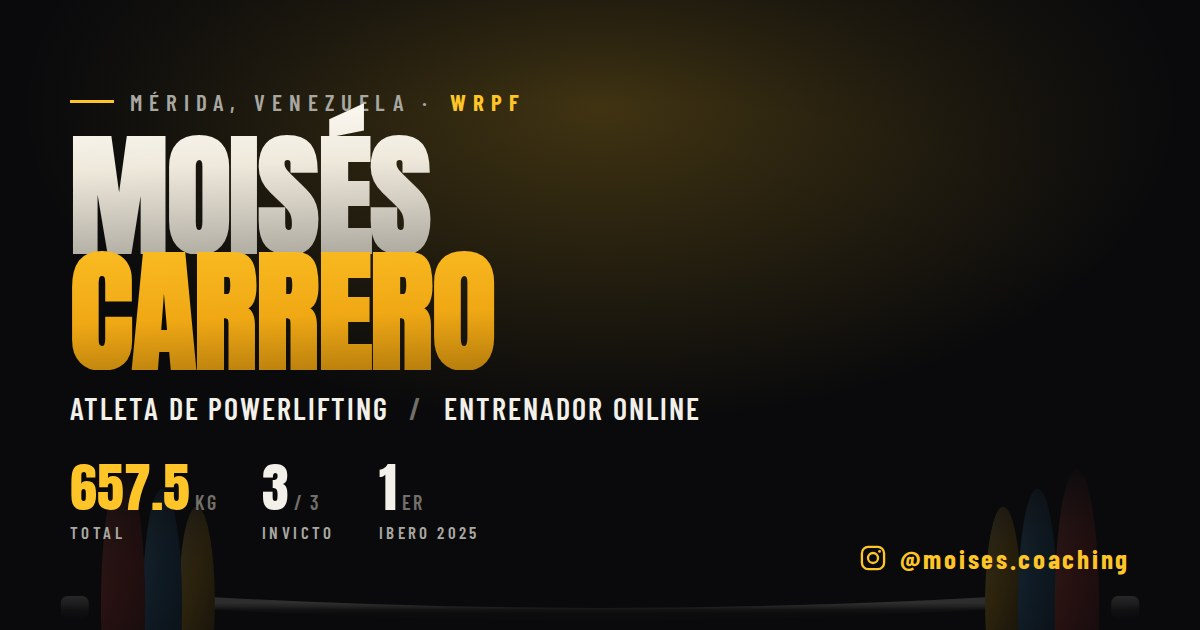
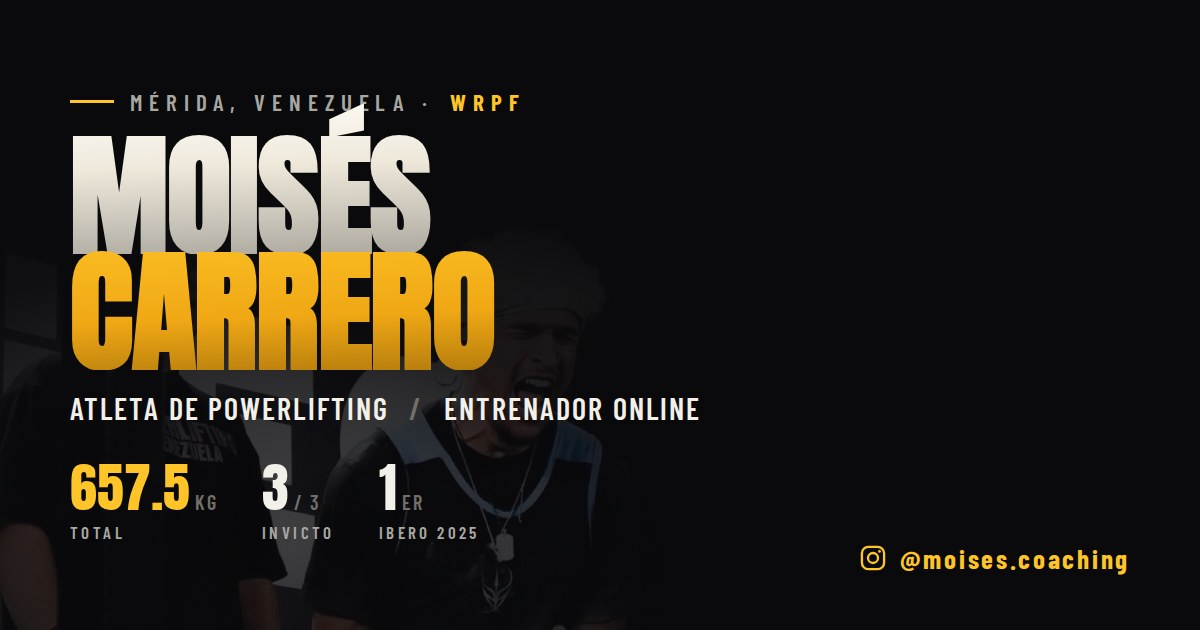
Usar fotos reales de Moisés en vez de ilustraciones SVG
El PDF de referencia traía capturas de Instagram en baja resolución, pero las
imágenes embebidas en ese PDF resultaron estar a resolución completa de
cámara (1496×3256). Se extrajeron dos y se usaron como fotografía real:

- Hero: foto de competencia (grito de celebración tras un levantamiento,
  Power Cartel Meet), reemplazando la barra olímpica ilustrada en SVG.
- Sección "Su historia": foto de podio con medalla y certificado del
  Iberoamericano 2025 (Medellín), en una nueva tarjeta junto a la ficha del
  atleta.

Ambas se recortaron para quitar la interfaz de Instagram, se les removió el
indicador de carrusel ("1/8", "1/5") que quedaba visible en la esquina
mediante un parche de textura clonada, se les quitaron los metadatos EXIF y
se optimizaron para web (148 KB y 75 KB).

El velo de legibilidad del hero se reforzó para que el texto siga
contrastando bien contra una foto real en vez de un fondo sólido, y el
parallax ahora mueve la foto en sí (background-position) en lugar del SVG
que se eliminó. og.jpg se regeneró con la misma foto del hero.

Claude-Session: https://claude.ai/code/session_01VCouPAkhFrSfZ17xHBRQR6

diff --git a/moises-carrero/index.html b/moises-carrero/index.html
@@ -329,43 +329,36 @@ section{position:relative;padding-block:clamp(4.5rem,11vw,8.5rem)}
   overflow:hidden;
   isolation:isolate;
 }
-.hero-bg{position:absolute;inset:0;z-index:-3;background:var(--ink-0)}
+/* foto de competencia real; la posición horizontal sigue al atleta
+   (queda algo a la izquierda del centro del encuadre original) y el --parY
+   lo mueve el scroll para un parallax sutil */
+.hero-bg{
+  position:absolute;inset:-4% -4%;z-index:-3;
+  background:var(--ink-0) url('img/hero.jpg') no-repeat;
+  background-size:cover;
+  background-position:44% calc(20% + var(--parY,0px));
+}
 /* cono de luz cenital */
 .hero-bg::before{
   content:"";position:absolute;left:50%;top:-18%;
   width:min(160vw,1500px);height:118%;transform:translateX(-50%);
   background:
-    radial-gradient(58% 52% at 50% 8%,rgba(255,197,40,.20),transparent 68%),
-    radial-gradient(46% 66% at 50% 34%,rgba(255,255,255,.07),transparent 72%);
+    radial-gradient(58% 52% at 50% 8%,rgba(255,197,40,.16),transparent 68%),
+    radial-gradient(46% 66% at 50% 34%,rgba(255,255,255,.05),transparent 72%);
   filter:blur(6px);
 }
-/* viñeta */
+/* viñeta + velo de legibilidad: sin esto el texto se pierde contra la foto */
 .hero-bg::after{
   content:"";position:absolute;inset:0;
   background:
-    radial-gradient(120% 78% at 50% 42%,transparent 34%,rgba(10,10,12,.72) 78%,var(--ink-0) 100%),
-    linear-gradient(180deg,rgba(10,10,12,.9) 0%,transparent 26%,transparent 58%,var(--ink-0) 97%);
+    radial-gradient(120% 78% at 50% 42%,transparent 22%,rgba(10,10,12,.78) 78%,var(--ink-0) 100%),
+    linear-gradient(180deg,rgba(10,10,12,.94) 0%,rgba(10,10,12,.25) 30%,rgba(10,10,12,.34) 56%,var(--ink-0) 98%),
+    linear-gradient(100deg,rgba(10,10,12,.7) 0%,rgba(10,10,12,.32) 42%,rgba(10,10,12,.08) 68%);
 }
 .hero-grain{
   position:absolute;inset:-10%;z-index:-2;pointer-events:none;
-  background-image:var(--grain);opacity:.07;mix-blend-mode:overlay;
+  background-image:var(--grain);opacity:.1;mix-blend-mode:overlay;
 }
-
-/* barra olímpica: se hunde bajo el borde inferior y se disuelve hacia arriba,
-   así el texto siempre cae sobre negro y nunca sobre un disco brillante */
-.hero-bar{
-  --barY:34%;
-  position:absolute;z-index:-1;
-  left:50%;bottom:0;
-  width:min(1200px,235vw);
-  transform:translate3d(-50%,calc(var(--barY) + var(--py,0px)),0);
-  opacity:.82;pointer-events:none;
-  /* rampa larga: en la franja visible los discos nunca llegan a brillo pleno,
-     así el texto que cae encima se sigue leyendo */
-  -webkit-mask-image:linear-gradient(180deg,transparent 5%,#000 84%,#000 100%);
-  mask-image:linear-gradient(180deg,transparent 5%,#000 84%,#000 100%);
-}
-@media (min-width:820px){ .hero-bar{--barY:26%;width:min(1680px,124vw)} }
 
 /* piso + polvo */
 .hero-floor{
@@ -564,6 +557,29 @@ h1.name span.b{
 @media (min-width:940px){
   .hist-grid{grid-template-columns:1.25fr .85fr;align-items:start;gap:clamp(2.5rem,5vw,4.5rem)}
 }
+.hist-side{display:flex;flex-direction:column;gap:1.75rem}
+
+.portrait{
+  margin:0;border-radius:var(--r);overflow:hidden;
+  border:1px solid var(--line);background:var(--ink-2);
+  position:relative;isolation:isolate;
+}
+.portrait::after{
+  content:"";position:absolute;inset:0;pointer-events:none;
+  background-image:var(--grain);opacity:.05;mix-blend-mode:overlay;
+}
+.portrait img{
+  width:100%;height:auto;display:block;
+  aspect-ratio:860/754;object-fit:cover;object-position:50% 18%;
+}
+.portrait figcaption{
+  padding:.85rem 1.1rem;border-top:1px solid var(--line);
+  background:var(--ink-2);position:relative;
+  font-family:var(--f-cond);font-weight:600;font-size:.76rem;
+  letter-spacing:.14em;text-transform:uppercase;color:var(--txt-3);
+}
+.portrait figcaption span{color:var(--gold);padding-inline:.3em}
+
 .prose p{margin:0 0 1.15rem;color:var(--txt-2);max-width:62ch}
 .prose p:last-child{margin-bottom:0}
 .prose strong{color:var(--txt);font-weight:600}
@@ -1008,82 +1024,11 @@ table.data tbody td strong{color:var(--gold)}
 
 <!-- ══════════════ HERO ══════════════ -->
 <section class="hero" id="inicio">
-  <div class="hero-bg" aria-hidden="true"></div>
+  <!-- foto real de competencia (Power Cartel Meet, Venezuela): decorativa —
+       toda la información se transmite en el texto, así que no necesita alt -->
+  <div class="hero-bg" id="heroBg" aria-hidden="true"></div>
   <div class="hero-grain" aria-hidden="true"></div>
   <div class="hero-floor" aria-hidden="true"></div>
-
-  <!-- Barra olímpica cargada con discos de competencia (rojo, azul, amarillo:
-       los colores reglamentarios de los discos y los de la bandera de Venezuela) -->
-  <svg class="hero-bar" id="heroBar" viewBox="0 0 1440 400" role="img" aria-label="Ilustración de una barra olímpica cargada con discos de competencia bajo un foco de tarima">
-    <defs>
-      <linearGradient id="steel" x1="0" y1="0" x2="0" y2="1">
-        <stop offset="0" stop-color="#d9d5cd"/>
-        <stop offset=".34" stop-color="#8e8b85"/>
-        <stop offset=".6" stop-color="#3b3a38"/>
-        <stop offset="1" stop-color="#131313"/>
-      </linearGradient>
-      <linearGradient id="collar" x1="0" y1="0" x2="0" y2="1">
-        <stop offset="0" stop-color="#cfcac1"/><stop offset=".5" stop-color="#5c5a56"/><stop offset="1" stop-color="#171717"/>
-      </linearGradient>
-      <linearGradient id="pRed" x1=".2" y1="0" x2=".8" y2="1">
-        <stop offset="0" stop-color="#ff6b5e"/><stop offset=".38" stop-color="#c4342c"/><stop offset="1" stop-color="#460f0c"/>
-      </linearGradient>
-      <linearGradient id="pBlue" x1=".2" y1="0" x2=".8" y2="1">
-        <stop offset="0" stop-color="#63b7e8"/><stop offset=".38" stop-color="#2a72a5"/><stop offset="1" stop-color="#0a2438"/>
-      </linearGradient>
-      <linearGradient id="pGold" x1=".2" y1="0" x2=".8" y2="1">
-        <stop offset="0" stop-color="#ffd964"/><stop offset=".38" stop-color="#d69c12"/><stop offset="1" stop-color="#3f2c04"/>
-      </linearGradient>
-      <linearGradient id="fadeDown" x1="0" y1="0" x2="0" y2="1">
-        <stop offset="0" stop-color="#0a0a0c" stop-opacity="0"/>
-        <stop offset=".62" stop-color="#0a0a0c" stop-opacity=".45"/>
-        <stop offset="1" stop-color="#0a0a0c" stop-opacity=".97"/>
-      </linearGradient>
-      <radialGradient id="glow" cx=".5" cy=".5" r=".5">
-        <stop offset="0" stop-color="#ffc528" stop-opacity=".30"/>
-        <stop offset="1" stop-color="#ffc528" stop-opacity="0"/>
-      </radialGradient>
-    </defs>
-
-    <ellipse cx="720" cy="205" rx="560" ry="150" fill="url(#glow)"/>
-
-    <!-- barra: las mangas suben por el látigo del peso -->
-    <path d="M232 196 Q720 224 1208 196" fill="none" stroke="url(#steel)" stroke-width="15" stroke-linecap="round"/>
-    <path d="M232 191 Q720 219 1208 191" fill="none" stroke="#fffdf6" stroke-opacity=".26" stroke-width="2.4" stroke-linecap="round"/>
-    <!-- marcas de knurling -->
-    <g stroke="#0a0a0c" stroke-opacity=".55" stroke-width="2">
-      <path d="M470 205v10M486 206v10M502 207v10"/>
-      <path d="M938 217v-10M954 216v-10M970 215v-10"/>
-    </g>
-
-    <!-- discos: izquierda -->
-    <g>
-      <ellipse cx="228" cy="197" rx="22" ry="118" fill="url(#pGold)"/>
-      <ellipse cx="228" cy="197" rx="9" ry="34" fill="#0d0d0f" opacity=".82"/>
-      <ellipse cx="186" cy="199" rx="24" ry="142" fill="url(#pBlue)"/>
-      <ellipse cx="186" cy="199" rx="10" ry="36" fill="#0d0d0f" opacity=".82"/>
-      <ellipse cx="138" cy="201" rx="27" ry="168" fill="url(#pRed)"/>
-      <ellipse cx="138" cy="201" rx="11" ry="38" fill="#0d0d0f" opacity=".82"/>
-      <ellipse cx="138" cy="201" rx="27" ry="168" fill="none" stroke="#fffdf6" stroke-opacity=".16" stroke-width="1.5"/>
-      <ellipse cx="96" cy="203" rx="14" ry="46" fill="url(#collar)"/>
-      <rect x="62" y="188" width="34" height="28" rx="8" fill="url(#steel)"/>
-    </g>
-    <!-- discos: derecha -->
-    <g>
-      <ellipse cx="1212" cy="197" rx="22" ry="118" fill="url(#pGold)"/>
-      <ellipse cx="1212" cy="197" rx="9" ry="34" fill="#0d0d0f" opacity=".82"/>
-      <ellipse cx="1254" cy="199" rx="24" ry="142" fill="url(#pBlue)"/>
-      <ellipse cx="1254" cy="199" rx="10" ry="36" fill="#0d0d0f" opacity=".82"/>
-      <ellipse cx="1302" cy="201" rx="27" ry="168" fill="url(#pRed)"/>
-      <ellipse cx="1302" cy="201" rx="11" ry="38" fill="#0d0d0f" opacity=".82"/>
-      <ellipse cx="1302" cy="201" rx="27" ry="168" fill="none" stroke="#fffdf6" stroke-opacity=".16" stroke-width="1.5"/>
-      <ellipse cx="1344" cy="203" rx="14" ry="46" fill="url(#collar)"/>
-      <rect x="1344" y="188" width="34" height="28" rx="8" fill="url(#steel)"/>
-    </g>
-
-    <!-- la barra se hunde en la sombra -->
-    <rect x="0" y="150" width="1440" height="250" fill="url(#fadeDown)"/>
-  </svg>
 
   <div class="dust" id="dust" aria-hidden="true"></div>
 
@@ -1204,19 +1149,27 @@ table.data tbody td strong{color:var(--gold)}
         </div>
       </div>
 
-      <aside class="ficha reveal" style="--d:120ms" aria-label="Ficha del atleta">
-        <h3>Ficha del atleta</h3>
-        <dl>
-          <div class="row"><dt>Edad</dt><dd>18 años</dd></div>
-          <div class="row"><dt>Base</dt><dd>Mérida, Venezuela</dd></div>
-          <div class="row"><dt>Federación</dt><dd>WRPF</dd></div>
-          <div class="row"><dt>Categoría</dt><dd>Sub-Junior –82.5 kg</dd></div>
-          <div class="row"><dt>Modalidad</dt><dd>Raw (sin equipo)</dd></div>
-          <div class="row"><dt>Estudios</dt><dd>Fisioterapia</dd></div>
-          <div class="row"><dt>Récord</dt><dd><b>657.5 kg</b> de total</dd></div>
-          <div class="row"><dt>Registro</dt><dd><b>3 – 0</b> en competencia</dd></div>
-        </dl>
-      </aside>
+      <div class="hist-side">
+        <figure class="portrait reveal" style="--d:80ms">
+          <img src="img/moises-podium.jpg" width="860" height="754" loading="lazy" decoding="async"
+               alt="Moisés Carrero sonriendo, con una medalla al cuello y el certificado de participación del Iberoamericano WRPF 2025 en Medellín.">
+          <figcaption>Medellín, sept. 2025 <span>·</span> Campeón Iberoamericano</figcaption>
+        </figure>
+
+        <aside class="ficha reveal" style="--d:200ms" aria-label="Ficha del atleta">
+          <h3>Ficha del atleta</h3>
+          <dl>
+            <div class="row"><dt>Edad</dt><dd>18 años</dd></div>
+            <div class="row"><dt>Base</dt><dd>Mérida, Venezuela</dd></div>
+            <div class="row"><dt>Federación</dt><dd>WRPF</dd></div>
+            <div class="row"><dt>Categoría</dt><dd>Sub-Junior –82.5 kg</dd></div>
+            <div class="row"><dt>Modalidad</dt><dd>Raw (sin equipo)</dd></div>
+            <div class="row"><dt>Estudios</dt><dd>Fisioterapia</dd></div>
+            <div class="row"><dt>Récord</dt><dd><b>657.5 kg</b> de total</dd></div>
+            <div class="row"><dt>Registro</dt><dd><b>3 – 0</b> en competencia</dd></div>
+          </dl>
+        </aside>
+      </div>
     </div>
   </div>
 </section>
@@ -1566,13 +1519,13 @@ table.data tbody td strong{color:var(--gold)}
     chart.style.setProperty("--p", Math.max(0, Math.min(1, p)).toFixed(4));
   }
 
-  /* ---------- parallax del hero ---------- */
-  var heroBar = document.getElementById("heroBar"), dustEl = document.getElementById("dust");
+  /* ---------- parallax del hero (sobre la foto real) ---------- */
+  var heroBg = document.getElementById("heroBg"), dustEl = document.getElementById("dust");
   function parallax(y){
-    if(reduce || !heroBar) return;
+    if(reduce || !heroBg) return;
     if(y > (window.innerHeight || 800) * 1.2) return;
-    // sólo la variable: la traslación base (--barY) vive en el CSS
-    heroBar.style.setProperty("--py", (y * 0.22).toFixed(1) + "px");
+    var max = 70; // tope: que la foto nunca se desplace tanto que asome el borde
+    heroBg.style.setProperty("--parY", Math.min(y * 0.12, max).toFixed(1) + "px");
     if(dustEl) dustEl.style.transform = "translate3d(0," + (y * 0.12).toFixed(1) + "px,0)";
   }
 

diff --git a/moises-carrero/README.md b/moises-carrero/README.md
@@ -11,9 +11,11 @@ contacto.
 |---|---|
 | `index.html` | El sitio completo: HTML, CSS, JS y tipografías, todo en un archivo. |
 | `og.jpg` | Imagen 1200×630 para compartir en WhatsApp/Instagram/X. |
+| `img/hero.jpg` | Foto de fondo del hero (competencia, Power Cartel Meet). |
+| `img/moises-podium.jpg` | Foto de podio con medalla y certificado (Iberoamericano, Medellín). |
 
-No hay build, no hay dependencias, no hay peticiones de red. Es un archivo
-estático que se abre con doble clic.
+No hay build, no hay dependencias, no hay peticiones de red. Es una carpeta
+estática que se abre con doble clic.
 
 ## Previsualizar
 
@@ -29,8 +31,8 @@ python3 -m http.server 8000 --directory .
 ## Desplegar
 
 Sirve la carpeta tal cual en cualquier hosting estático (GitHub Pages, Netlify,
-Vercel, Cloudflare Pages). Sube `index.html` y `og.jpg` juntos, en el mismo
-directorio.
+Vercel, Cloudflare Pages). Sube `index.html`, `og.jpg` y la carpeta `img/`
+juntos, manteniendo esta misma estructura relativa.
 
 ### Antes de publicar
 
@@ -49,6 +51,10 @@ directorio.
 3. **Revisar los testimonios.** Los de la sección *Resultados* están
    parafraseados a partir de su contenido de Instagram, no son citas
    literales. Vale la pena que él los valide.
+4. **Confirmar que Moisés está de acuerdo con las dos fotos usadas.** Son
+   suyas, publicadas por él, pero al ser su propia landing vale la pena que
+   las apruebe antes de publicar — sobre todo la del hero, que ahora es la
+   primera imagen que ve cualquiera que entre al sitio.
 
 ## De dónde salen los datos
 
@@ -57,11 +63,18 @@ personales vienen de sus registros en OpenPowerlifting bajo la federación WRPF.
 Están además en una tabla accesible dentro de la propia página: el botón
 *«Ver los datos en tabla»* bajo el gráfico de progresión.
 
-## Notas técnicas
+## De dónde salen las fotos
 
-- **Sin imágenes fotográficas.** Todo lo visual —la barra olímpica del hero, los
-  iconos, las texturas de grano— es SVG y CSS escritos a mano. La página entera
-  pesa ~150 KB y carga completa sin red.
+`img/hero.jpg` y `img/moises-podium.jpg` son recortes de fotos reales de
+competencia que Moisés publicó en su propio Instagram (@moises.coaching) — no
+son fotografía profesional ni imágenes generadas. Se extrajeron a resolución
+completa (1496×3256, la de la cámara del teléfono, no la de una captura de
+pantalla) desde el PDF de referencia del proyecto, se recortaron para quitar
+la interfaz de Instagram y se les quitó el indicador de carrusel ("1/8",
+"1/5") que quedaba visible en la esquina. También se les quitaron los
+metadatos EXIF al guardarlas. El resto de lo visual —iconos, texturas,
+gráficos— sigue siendo SVG y CSS escritos a mano.
+
 - **Tipografías incrustadas** en base64 (subconjunto latino): *Anton* y
   *Barlow Condensed*, ambas bajo [SIL Open Font License 1.1](https://scripts.sil.org/OFL).
   Se incrustaron en vez de enlazar Google Fonts para que no haya peticiones
